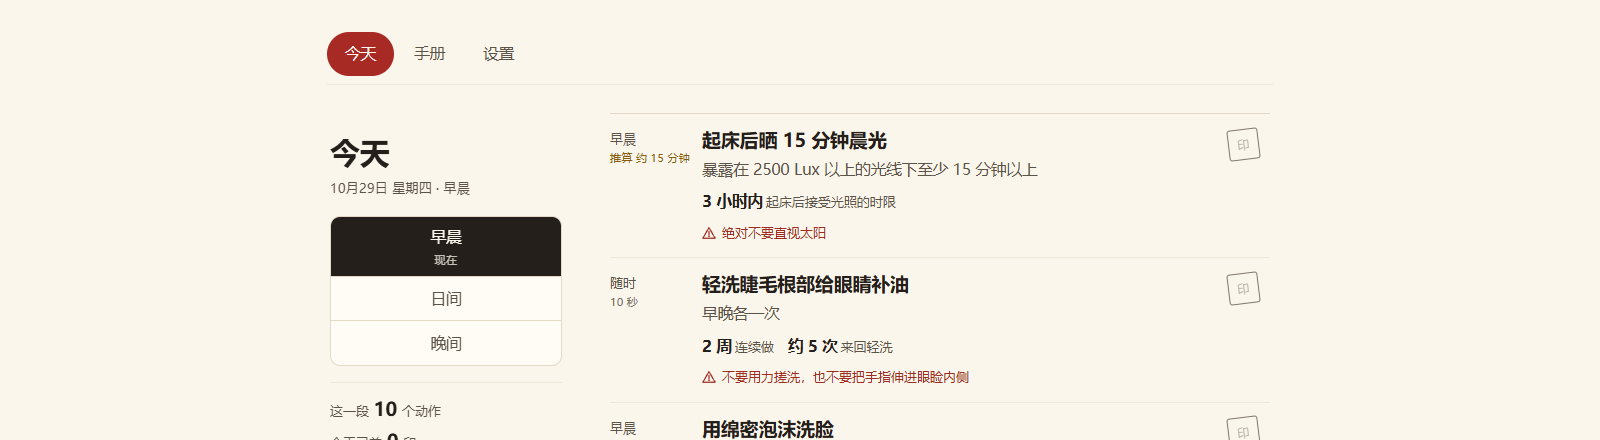
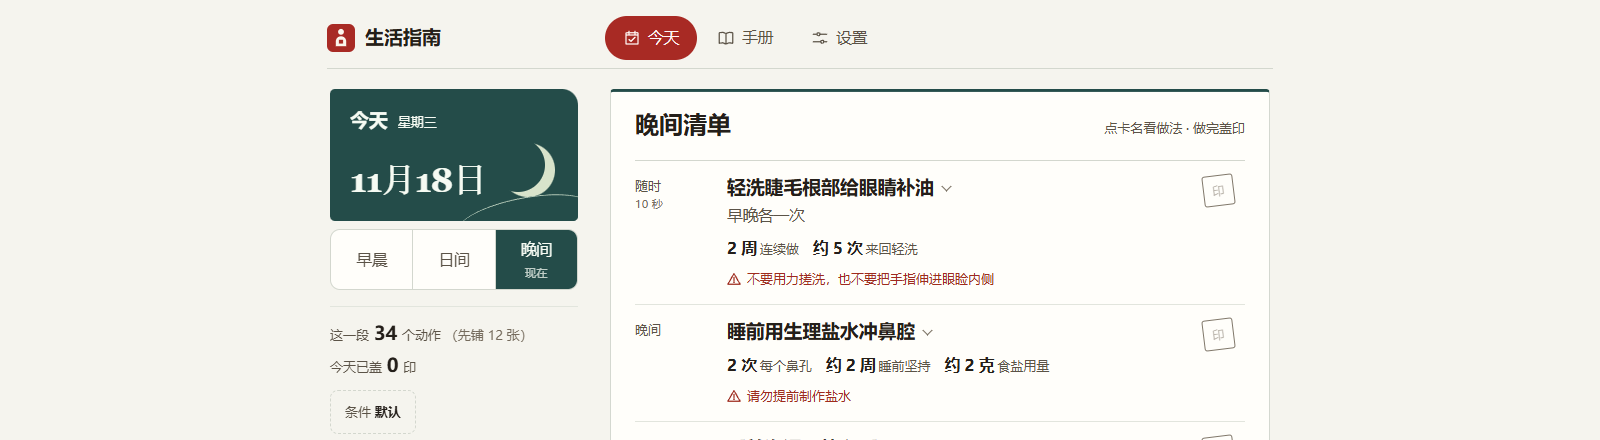
docs: align README, AGENTS and guides with current app and release state

diff --git a/content/src/signing-list.ts b/content/src/signing-list.ts
@@ -3,7 +3,7 @@
  *
  * 为什么要它：审阅报告是给机器读的（有问题才写出来，没问题的卡连引文都不列）；
  * 签字是**逐条过**的事 —— 一份带勾选框、每条给一张卡预览的清单才过得动。
- * 289 张卡分 88 篇，一次一篇地翻报告比看清单慢得多。
+ * 几百张卡分上百篇，一次一篇地翻报告比看清单慢得多。
  *
  * 清单也是签字的输入：勾上的 `[x]` 行由 `content review --list` 读走。
  * 签字仍然是人的判断 —— 机器只负责把「可以看的」挑出来并排好队。

diff --git a/content/src/content-audit.ts b/content/src/content-audit.ts
@@ -14,7 +14,7 @@
  *
  * **它自己的两个坑**（2026-10-31 实测）：
  *   · 指纹要比对**内容层自己的加载结果**（`loadAllCards`），不是 YAML 原始对象 ——
- *     直接拿 YAML 对象算 `fingerprint()` 会全表失配（491 张全「失效」），看着像大事
+ *     直接拿 YAML 对象算 `fingerprint()` 会全表失配（493 张全「失效」），看着像大事
  *   · `yaml` 的 `Document.get("x")` 拿的是**值**，`node.get("x")` 才是节点
  */
 import fs from "node:fs";

diff --git a/docs/使用指南.md b/docs/使用指南.md
@@ -1,6 +1,6 @@
 # 使用指南
 
-这个 App 有两层：**App 给你看今天做什么**，**底下一层把 113 篇手册核成了 491 张卡**。
+这个 App 有两层：**App 给你看今天做什么**，**底下一层把 113 篇手册核成了 493 张卡**。
 界面只写一遍，跑在三种壳里：**浏览器（PWA）、电脑（Electron 独立应用）、手机（Capacitor 独立应用）**。
 这份指南讲两段：怎么装起来、每天怎么用。
 （内容审阅、签字与决策门那些是你自己的活，写在 [AGENTS.md](../AGENTS.md) 里，末节有指路。）
@@ -14,12 +14,14 @@
 | 平台 | 下哪个 | 装的时候注意 |
 | --- | --- | --- |
 | 浏览器 | 不用装，<https://life.newzone.top/> 直接开（也能装到桌面与手机） | 数据存在这台设备的浏览器里，导出见 §二「定期导出」 |
-| Windows | `LifeGuide-Setup-0.3.0.exe`（x64 + arm64 合一） | 未签名，首次运行会弹 SmartScreen →「更多信息 → 仍要运行」 |
-| Windows | `LifeGuide-Portable-0.3.0-x64.exe`（免安装） | 免安装版**不接自动更新**，换版要自己再下一次 |
-| macOS | `LifeGuide-0.3.0-x64.dmg` / `-arm64.dmg` | 未签名未公证 → 首次打开**右键 →「打开」** |
-| Linux | `.AppImage`（x64 / arm64） | AppImage 版接自动更新 |
+| Windows | `LifeGuide-Setup-<版本>.exe`（x64 + arm64 合一） | 未签名，首次运行会弹 SmartScreen →「更多信息 → 仍要运行」 |
+| Windows | `LifeGuide-Portable-<版本>-x64.exe`（免安装） | 免安装版**不接自动更新**，换版要自己再下一次 |
+| macOS | `LifeGuide-<版本>-x64.dmg` / `-arm64.dmg` | 未签名未公证 → 首次打开**右键 →「打开」** |
+| Linux | `.AppImage`（x64 / arm64） | AppImage 版接自动更新（N→N+1 仍待在 Linux 机器上实测） |
 | Linux | `.deb` / `.rpm` | 这两种**不接自动更新**，换版要自己换包 |
-| Android | `LifeGuide-0.3.0.apk` | debug 签名，允许「安装未知来源」即可装 |
+| Android | `LifeGuide-<版本>.apk` | 固定发布密钥签名的 release 包（不是 debug 包）；允许「安装未知来源」即可装 |
+
+文件里的 `<版本>` 就是下载页那一版的版本号。
 
 Linux 的架构后缀**按格式不同**：AppImage 与 rpm 用 `x86_64` / `aarch64`，
 deb 用 `amd64` / `arm64` —— 同样是 x64，文件名对不上是正常的。
@@ -48,6 +50,7 @@ Linux 出 `.AppImage` + `.deb` + `.rpm`（AppImage 版接自动更新；deb / rp
 Windows 包也还没签名，首次运行会有 SmartScreen 提示；`npm run desktop:build` 只打当前系统，三平台一起打是发版流水线的事。
 
 **能自己更新的形态**：Windows 的**安装版**与 Linux 的 **AppImage 版**（免安装版、macOS、deb / rpm 都不行）。
+Linux 这条链路已经接好，但还没有在一台 Linux 机器上实测过从 N 升到 N+1。
 更新是「查」不是「偷偷下」：启动时查一次有没有新版本，查到了弹一条系统通知，
 到「设置 → 更新」里点「下载更新」才下 —— 双架构合一的安装包两百多兆，你点了才下。
 装完把 App 重启一下就换好了。
@@ -148,23 +151,22 @@ org.gradle.java.installations.paths=C:\\Program Files\\Android\\Android Studio\\
 
 ### 打开就是「今天」
 
-- 顶上第一行是**时段**：早 / 日间 / 晚。默认跟着钟点走（现在几点就落在哪一段；
+- 页边（窄屏在顶部）第一行是**时段**：早 / 日间 / 晚。默认跟着钟点走（现在几点就落在哪一段；
   凌晨 04:00 前仍算前一天的晚间），也可以手动切 —— 想在早上看看晚上要做的事，点一下就行。
   从日历提醒点进来的链接会直接落到对应的那一段。
 - 列表里只有**你自己挑进日常的那几张**（加上「随时」都能做的那些），不是手册里所有能做的动作。
   全铺出来的话光是「随时」类的就有几百张，那不是清单是目录。
   卡片左边那个时段标签是**按手册原文标的**：原文只说「睡前」才标「晚间」，
   原文说「早晚各一次」或者压根没提时间，就标「随时」—— 那一档的意思是「哪一段都能做」。
-  **第一次打开时 App 会替你放好 16 张**：手册「每天固定做的几件事」那两节的 8 张
-  （晨光、睑缘清洗、洗脸、刷牙、牙线、3T 保湿、血管拉伸、睡前鼻腔冲洗），
-  再按早 / 日 / 晚每档补几张 —— 补的都是手册里写着「每天做」的动作，
-  免得某一屏打开是空的。次序**按时间排** —— 早、晚两段的动作在前，
-  「随时」那几张在后面。不用先做一次设置。
+  **第一次打开时 App 会替你放好 40 张**：来自内容层的默认清单 —— 手册「每天固定做的几件事」
+  里的清洁、晨光、防晒、保湿、拉伸这些，加上「有余力就做」和原文明写「每天 / 每周做」的动作。
+  当前时段会显示 34 张（该时段 3 张 + 「随时」31 张），屏上先铺前 12 张，
+  其余收在「还有 22 件，全展开」里。不用先做一次设置。
 - 想改：**展开任意一张**，末尾有两个不同的动作：
   - **今天不做**：只跳过这一天，明天自动回来；清单上方「今天不做」可以撤销，日常清单不动。
   - **移出日常**：以后都不再出现；手册或「发现」里还能再加回来。
-  **条件那一行下面的「调顺序」**能上下挪 —— 挪过的次序就是你之后看到的次序，刷新也还在。
-- **手册里没有的习惯，你自己加**：今天页左边那颗**「加自己的习惯」**，
+  用**「调顺序」**上下挪，刷新后仍按你选的次序显示。手机上先点「管理日常」，宽屏上直接用左栏的按钮。
+- **手册里没有的习惯，你自己加**：在今天页点**「加自己的习惯」**（手机上先展开「管理日常」），
   填「叫什么」「做什么（可以不填）」「什么时候做」，保存就进你的日常。
   - 它跟你从手册里挑的动作**一样**：能盖章、能算累计天数、能单独设闹钟、能调次序。
   - 展开它，页脚写着「你自己加的」，那两颗键是**「改」**和**「删掉」**——
@@ -198,6 +200,10 @@ org.gradle.java.installations.paths=C:\\Program Files\\Android\\Android Studio\\
   不拆成「下限 / 上限」两条；原文写「1/2 小勺」而换算成 0.5 的，会标「推算」并给出算式。
   卡片上的每一步、每条禁忌都是**原文的话**，不再另摆一份引文；
   要去逐字对质，看展开态最底下那句「出自〈哪一篇〉」，点它跳到手册里的那一篇。
+- **耗时可以直接计时**：展开卡，「耗时」那一行旁边有计时器。知道时长就倒计时
+  （到点提醒一次），原文没给时长的就正计时；每一步各有自己时长的卡还有**分步计时** ——
+  每步一个读数，归零自动跳到下一步，可以暂停 / 重置 / 上一步 / 下一步，换边的步骤会自动标出来。
+  计时状态不存，切走就没了。
 - 第二行是**条件**（点开才展开）：模式（正常 / 很忙 / 出差 / 生病）与我的情况
   （年龄段 + 易跌倒 / 膝盖不适 / 孕期 / 经期）。设置页里也能改，改的是同一份。
   - **模式**设计上会换掉步骤 —— 当前有 15 张卡带模式版本（14 张忙档、1 张生病跳过，
@@ -215,12 +221,11 @@ org.gradle.java.installations.paths=C:\\Program Files\\Android\\Android Studio\\
 
 给已经用过一阵子的人：
 
-- **你的清单是你自己的，App 不会悄悄换掉它。** 内容是跟着 App 走的（现在 App 里有 402 个
+- **你的清单是你自己的，App 不会悄悄换掉它。** 内容是跟着 App 走的（现在 App 里有 404 个
   能照着做的动作），但「今天」那一屏仍然是你存过的那份 —— 你手动挑过、删过、排过序的东西，
-  不会因为 App 更新就没了。新动作从「发现」每天来一张，手册里 113 篇能翻、88 篇有动作卡。
-- **想换回 App 给的那张默认清单**：今天页顶部 → **「放回默认」**（跟「调顺序」并排，
-  一进今天页就看得见）。点一下就回到内容层当前的默认清单：按清单分组是早晨 3 /
-  日间 3 / 晚间 3 / 随时 7，共 16 张，次序按时间排。
+  不会因为 App 更新就没了。新动作从「发现」每天来一张，手册里 113 篇能翻、89 篇有动作卡。
+- **想换回 App 给的那张默认清单**：今天页顶部 → **「放回默认」**（手机上先展开「管理日常」）。点一下就回到内容层当前的默认清单：共 40 张；
+  每个时段显示 34 张（该时段 3 张 + 随时 31 张），先铺 12 张，其余收在「还有 N 件」里。
 - **清单被你自己清空了**：今天页会变成空态，那里面有一颗 **「放回默认」** —— 同一个恢复动作。
 - 这两颗键都是**替换**：点了之后你挑的那几张会被默认清单顶掉（毕竟是你点的按钮）。
 
@@ -234,11 +239,10 @@ org.gradle.java.installations.paths=C:\\Program Files\\Android\\Android Studio\\
 
 113 篇全文（快照根下那个 README 是这本书的目录页，不算一篇），可以搜标题和正文，也可以按**身体 / 饮食 / 思维 / 生活**四类翻。
 疾病类的文章在「今天」里不出现，只在这里，页首会有一句「本页是疾病知识，不是治疗方案」。
-每篇下面标了它抽出了几个动作 —— 标了数字的就是能照着做的（现在 113 篇里有 88 篇有动作卡；
-15 篇是疾病知识；其余 10 篇只有正文，没有可执行卡）。
+每篇下面标了它抽出了几个动作 —— 标了数字的就是能照着做的（现在 113 篇里有 89 篇有动作卡；
+15 篇是疾病知识；其余 9 篇只有正文，没有可执行卡）。
 
-**页面顶部有一排「常用」小片** —— 洗脸、刷牙、防晒、晨光这些天天要做的，
-点一下就加进「我的日常」，不用翻到某一篇里去找。已经在日常里的摆着但不让再点一次。
+在「全部」分类下，展开**「从常用动作加入日常」**，点一下就能加入洗脸、刷牙、防晒等动作。带勾的动作已经在日常里。
 
 ### 日历提醒（浏览器里建议再导一份）
 
@@ -267,7 +271,7 @@ org.gradle.java.installations.paths=C:\\Program Files\\Android\\Android Studio\\
    | --- | --- | --- |
    | **GitHub 私有仓库** | 填 `owner/repo`、一个 Token（Personal Access Token，只要 `repo` 权限） | **能** |
    | **网盘（WebDAV）** | 填 WebDAV 根地址、账号、应用密码（坚果云在「安全选项」里生成） | **不能**（WebDAV 不给 CORS 头，浏览器会拦）—— 桌面端与 Android 手机可用 |
-   | 自己搭的中转服务 | 部署仓库里带的那个 Worker（[`sync/README.md`](../sync/README.md)），填它的地址 | 能 |
+   | 自己搭的中转服务 | 部署仓库里带的 Worker，填写服务地址和部署时设置的写入令牌（见 [同步服务部署](../sync/README.md)） | 能 |
 
    GitHub 那条最省事：账号现成、API 现成，**数据加密后放在自己仓库里的一个文件**，
    仓库里只有一串看不出内容的密文。网盘那条适合已经有坚果云 / NAS 的人。

diff --git a/README.md b/README.md
@@ -10,7 +10,7 @@
 
 你知道自己该做什么，但记不清具体怎么做——晨光要晒多久、睑缘清洗怎么洗、涂防晒要涂几遍。手册写得很细，细到没人会从头读一遍。
 
-生活指南把《生活手册》拆成 491 张卡：**402 张能照着做的动作，89 张疾病知识**。今天要做哪几件，直接列给你；每张卡展开就是原文里的做法、剂量和禁忌，一句一句对着核过。
+生活指南把《生活手册》拆成 493 张卡：**404 张能照着做的动作，89 张疾病知识**。今天要做哪几件，直接列给你；每张卡展开就是原文里的做法、剂量和禁忌，一句一句对着核过。
 
 和「再开一个健康 App」不一样的地方：这里没有算法替你决定该做什么，也没有社交动态，只有一本书的内容，和一份能核对的校验器——卡里每个数字都能回到原文的那句话。
 
@@ -22,7 +22,7 @@
 | 方面 | 支持情况 |
 | --- | --- |
 | 形态 | **Windows / macOS / Linux 桌面版**、**Android APK**、**浏览器 PWA**（可装到桌面与手机）—— 同一份构建，各处跑 |
-| 内容 | 《生活手册》（NHK 说明书系列）的一次快照：**113 篇全文可读**，已签 **491 张卡**（402 张动作 + 89 张疾病知识） |
+| 内容 | 《生活手册》（NHK 说明书系列）的一次快照：**113 篇全文可读**，已签 **493 张卡**（404 张动作 + 89 张疾病知识） |
 | 系统 | Windows 10+（x64 / arm64）；macOS（Intel / Apple Silicon）；Linux（x64 / arm64）；Android 7.0+ |
 | 浏览器 | Chrome / Edge / Safari |
 | 联网 | 只有第一次加载需要网络，之后**完全离线可用**（卡片、步骤图、手册全文都预缓存） |
@@ -34,28 +34,29 @@
 
 - **今天该做哪几件**——按时段（早晨 / 日间 / 晚间）给你这一段的清单，「随时」那几张一直都在
 - **每张卡都能查做法**——剂量、步骤、耗时、见效时间、禁忌，展开就写清楚；原文没给的就明说没给；原文写「约 5 次」的，剂量就显示「约 5 次」，不把近似说成定值
+- **卡里的耗时能直接计时**——知道时长就倒计时，不知道就正计时；分步的卡还能按步走、归零自动跳下一步，暂停 / 重置 / 补做都在卡上
 - **盖章不清零**——断几天不算清零（原文说的是「连续 5～6 个月才显现效果」）
 - **把书里读到的动作收进来**——手册里任何一篇的卡，点「放进日常」就进你的日常清单（以后都在，频率可单独设）；自己加的习惯也一样
 - **闹钟自己响**——桌面 / 手机端不打开 App 也能跟着做；响的时候告诉你这一段该做哪几件
 - **手册全文能搜**——113 篇按目录分类，标题正文都能搜，**卡名也能搜**（今天页上看到的名字，在手册里一搜就有）；正文按 markdown 渲染，表格、插图、层级列表都在原位
 - **数据是你的**——导出成 JSON 换设备；需要闹钟兜底还能导出日历文件（.ics）
 - **多设备接着用**——开「多设备同步」后，手机与桌面共用同一份数据；上传的只有密文，服务器读不到内容
-- **常用动作一键加**——手册页顶部摆着洗脸、刷牙、防晒这些天天要做的，点一下就进「我的日常」
+- **常用动作一键加**——手册页「全部」分类下展开「从常用动作加入日常」，点一下就能加入洗脸、刷牙、防晒这些天天要做的
 
 ## 怎么用
 
-**今天页**——左边按时段切换，右边是这一段的清单。点卡片名展开看细节，点右边的方格盖章；展开后末尾可以「今天不做」（只跳过这一天，明天回来）或「移出日常」（以后不再出现）。手册里没有的习惯，点「加自己的习惯」自己加：填叫什么、做什么（可不填）、什么时候做，加完照样能盖章、设提醒。
+**今天页**——先按时段（早晨 / 日间 / 晚间）看这一段的清单。点卡片名展开看细节，点右边的方格盖章；展开后末尾可以「今天不做」（只跳过这一天，明天回来）或「移出日常」（以后不再出现）。手册里没有的习惯，点「加自己的习惯」自己加：填叫什么、做什么（可不填）、什么时候做，加完照样能盖章、设提醒。
 
 **手册页**——搜标题或正文，按目录分类翻。点「放进日常」把动作收进日常清单。
 
-**设置页**——条件（忙 / 出差 / 生病时做什么、年龄段等）、提醒时刻、导出导入数据、装到主屏幕。
+**设置页**——条件（忙 / 出差 / 生病时做什么、年龄段等）、提醒、数据（导出 / 导入 / 清空）、多设备同步、更新与「关于」。
 
 ## 限制
 
 - 只覆盖《生活手册》这一本书的快照，**不是通用健康建议**，也不能替代医生
 - **代码是 MIT；手册正文与图片不是** —— 它们来自 NHK 节目与说明书，版权归原权利人，不在 MIT 授权范围内。本仓库与安装包自 2026-10-28 起公开分发；再分发请先取得许可（见 [NOTICE.md](NOTICE.md)）
 - 界面只做了中文；桌面版有 Windows / macOS / Linux 构建（x64 + arm64），但只实机验过 Windows；macOS / Linux 还没在真机跑过完整流程
-- **桌面安装包还没签名**：Windows 首次运行会有 SmartScreen 提示；macOS 版未签名 / 未公证，需要右键「打开」，且不接自动更新；Linux 的 AppImage 版接自动更新，deb / rpm 版请手动换新包
+- **桌面安装包还没签名**：Windows 首次运行会有 SmartScreen 提示；macOS 版未签名 / 未公证，需要右键「打开」，且不接自动更新；Linux 的 AppImage 版接自动更新（还没在 Linux 机器上实测过从 N 升到 N+1），deb / rpm 版请手动换新包
 - **浏览器版的后台提醒会被浏览器压住，可能晚几分钟**，要准点响请用桌面版或手机版
 - iOS 还没实机验过（PWA 形态可用，没在 iPhone 上跑过完整流程）
 - 主动撤销一次周期完成，会把那一次从累计里扣掉；更早的记录仍在

diff --git a/NOTICE.md b/NOTICE.md
@@ -1,6 +1,6 @@
 # 版权与许可说明
 
-本仓库的**代码**（`app/`、`content/src/`、`desktop/`、`mobile/`、`scripts/` 等）采用 MIT 许可，见 [LICENSE](LICENSE)。
+本仓库的**代码**（`app/`、`content/src/`、`desktop/`、`mobile/`、`sync/`、`scripts/` 等）采用 MIT 许可，见 [LICENSE](LICENSE)。
 
 以下内容来自 NHK 的节目与说明书系列，版权归原权利人：`content/source/` 中的手册正文、`content/media/` 中的节目截图与图片、`content/cards/` 中照抄原文的卡片文字与引文，以及由它们生成的卡片 / 手册数据（`cards.json`、`manual.json`，含打好的安装包）和 `docs/images/` 里露出版权内容的截图。这些内容**不在 MIT 授权范围内**；未经权利人许可，不得转载、改编或再分发。把本仓库或安装包公开，同样属于再分发。
 

diff --git a/docs/WebDAV同步复核-2026-11-09.md b/docs/WebDAV同步复核-2026-11-09.md
@@ -51,3 +51,10 @@ WebDAV 服务必须提供强 ETag，并正确、原子地执行 If-Match / If-No
 526 张卡校验 0 error/0 warning；类型与 Markdown lint 通过；
 生产构建通过（127 项预缓存、106 张图片），11 项浏览器验收全部通过。
 WebDAV 专项四个测试文件共 35 项通过，其中 15 项为本轮新增。
+
+## 2026-11-18 复跑
+
+桌面依赖升级（Electron 45.3.4 / electron-updater 6.8.12）后复跑：
+870 项单测（63 个文件）、41 项桌面逻辑测试、11 项浏览器验收全部通过；
+WebDAV 专项 7 项仍在。同步协议、合并规则与加密格式本轮未改。
+真实网盘与 Android / iOS 真机往返仍未验收。
